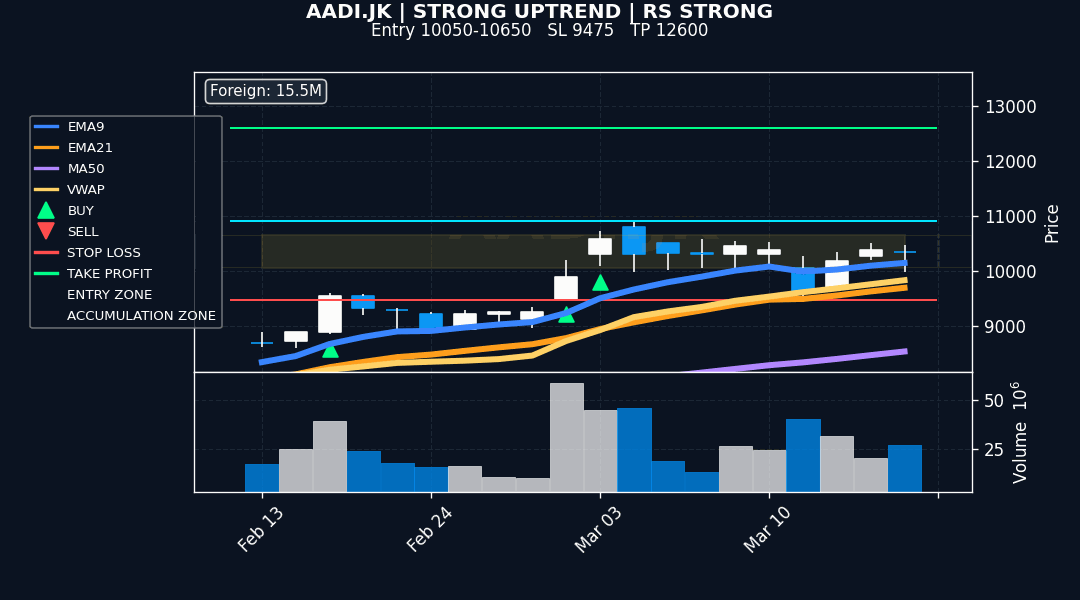
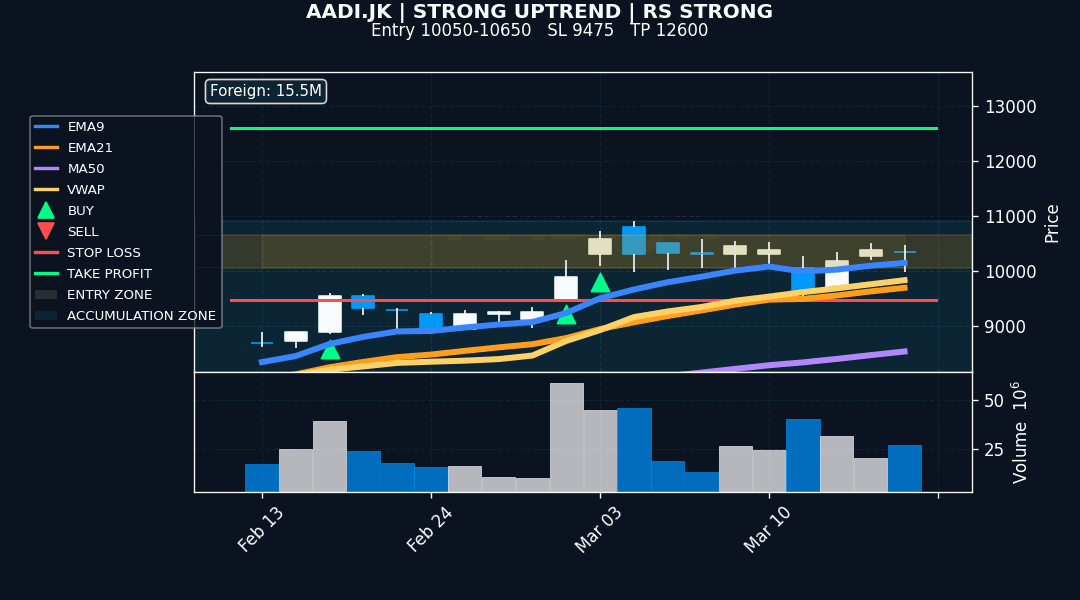
up

diff --git a/utils/chart_generator.py b/utils/chart_generator.py
@@ -33,8 +33,8 @@ VWAP_COLOR = "#ffd166"
 BUY_COLOR = "#00ff88"
 SELL_COLOR = "#ff4d4d"
 
-ENTRY_ZONE_COLOR = "#fbbf24"
-ACC_ZONE_COLOR = "#00e5ff"
+ENTRY_ZONE_COLOR = "#f59e0b"
+ACC_ZONE_COLOR = "#06b6d4"
 
 SL_COLOR = "#ff4d4d"
 TP_COLOR = "#00ff88"
@@ -297,22 +297,6 @@ def generate_chart(sym, r, df):
 
         buy_chart = buy_chart.replace(0, np.nan)
         sell_chart = sell_chart.replace(0, np.nan)
-        
-        buy_plot = mpf.make_addplot(
-            buy_chart,
-            type="scatter",
-            marker="^",
-            color=BUY_COLOR,
-            markersize=80,
-        )
-
-        sell_plot = mpf.make_addplot(
-            sell_chart,
-            type="scatter",
-            marker="v",
-            color=SELL_COLOR,
-            markersize=80,
-        )
 
         # =========================
         # ENTRY SL TP
@@ -408,25 +392,16 @@ def generate_chart(sym, r, df):
         if chart_df["EMA9"].notna().sum() > 3:
             apds.append(mpf.make_addplot(chart_df["EMA9"], color=EMA9_COLOR))
 
-        if buy_chart.dropna().shape[0] > 0:
-            apds.append(buy_plot)
-
-        if sell_chart.dropna().shape[0] > 0:
-            apds.append(sell_plot)
-
 
         # =========================
         # PRICE RANGE
         # =========================
 
         high_val = chart_df["High"].max()
-
         low_val = chart_df["Low"].min()
 
         price_max = max(high_val,tp) * 1.08
-
         price_min = min(low_val,sl) * 0.95
-
 
         # =========================
         # STYLE
@@ -440,6 +415,31 @@ def generate_chart(sym, r, df):
             gridstyle="--",
             y_on_right=True
         )
+
+        # =========================
+        # BUY & SELL PLOT
+        # =========================
+        buy_plot = mpf.make_addplot(
+            buy_chart,
+            type="scatter",
+            marker="^",
+            color=BUY_COLOR,
+            markersize=120,
+        )
+
+        sell_plot = mpf.make_addplot(
+            sell_chart,
+            type="scatter",
+            marker="v",
+            color=SELL_COLOR,
+            markersize=120,
+        )
+
+        if buy_chart.dropna().shape[0] > 0:
+            apds.append(buy_plot)
+
+        if sell_chart.dropna().shape[0] > 0:
+            apds.append(sell_plot)
 
 
         # =========================
@@ -455,8 +455,9 @@ def generate_chart(sym, r, df):
             volume_panel=1,
             volume_alpha=0.7,
             hlines=dict(
-                hlines=[sl,tp,breakout],
-                colors=[SL_COLOR,TP_COLOR,ACC_ZONE_COLOR]
+                hlines=[sl,tp],
+                colors=[SL_COLOR,TP_COLOR],
+                linewidths=1.5
             ),
             returnfig=True,
             figsize=(9,5),
@@ -489,7 +490,7 @@ def generate_chart(sym, r, df):
         )
 
         ax = axlist[0]
-
+    
         ax.text(
             chart_df.index[-1],
             entry_high,
@@ -559,7 +560,7 @@ def generate_chart(sym, r, df):
         ax.axhspan(
             zone_low,
             breakout,
-            alpha=0.025,
+            alpha=0.12,
             color=ACC_ZONE_COLOR
         )
 
@@ -567,7 +568,7 @@ def generate_chart(sym, r, df):
             entry_low,
             entry_high,
             color=ENTRY_ZONE_COLOR,
-            alpha=0.06
+            alpha=0.18
         )
 
         legend_items = [
@@ -582,8 +583,8 @@ def generate_chart(sym, r, df):
             Line2D([0],[0],color=SL_COLOR,lw=2, label="STOP LOSS"),
             Line2D([0],[0],color=TP_COLOR,lw=2, label="TAKE PROFIT"),
 
-            Patch(facecolor=ENTRY_ZONE_COLOR,alpha=0.06,edgecolor="none", label="ENTRY ZONE"),
-            Patch(facecolor=ACC_ZONE_COLOR,alpha=0.025,edgecolor="none", label="ACCUMULATION ZONE")
+            Patch(facecolor=ENTRY_ZONE_COLOR,alpha=0.18,edgecolor="none", label="ENTRY ZONE"),
+            Patch(facecolor=ACC_ZONE_COLOR,alpha=0.12,edgecolor="none", label="ACCUMULATION ZONE")
         ]
 
         ax.legend(

diff --git a/scanner.py b/scanner.py
@@ -987,17 +987,17 @@ def run():
                 continue
                 
             caption = f"""
-            {sym}
-            Score: {r['score']}
-            Entry: {int(r['entry_low'])}-{int(r['entry_high'])}
-            SL: {int(r['stoploss'])}
-            TP: {int(r['tp2'])}
+{sym}
+Score: {r['score']}
+Entry: {int(r['entry_low'])}-{int(r['entry_high'])}
+SL: {int(r['stoploss'])}
+TP: {int(r['tp2'])}
 
-            BACKTEST (1 Month) :
-            📈 Winrate: {r.get('win20d',0)*100:.0f}%
-            ⚡ Expectancy: {r.get('exp20',0)*100:.2f}%
-            💰 ProfitFactor: {pf:.2f} {badge}
-            """
+BACKTEST (1 Month) :
+📈 Winrate: {r.get('win20d',0)*100:.0f}%
+⚡ Expectancy: {r.get('exp20',0)*100:.2f}%
+💰 ProfitFactor: {pf:.2f} {badge}
+"""
             print("Sending chart:", chart)
 
             send_photo(chart, caption=caption)
